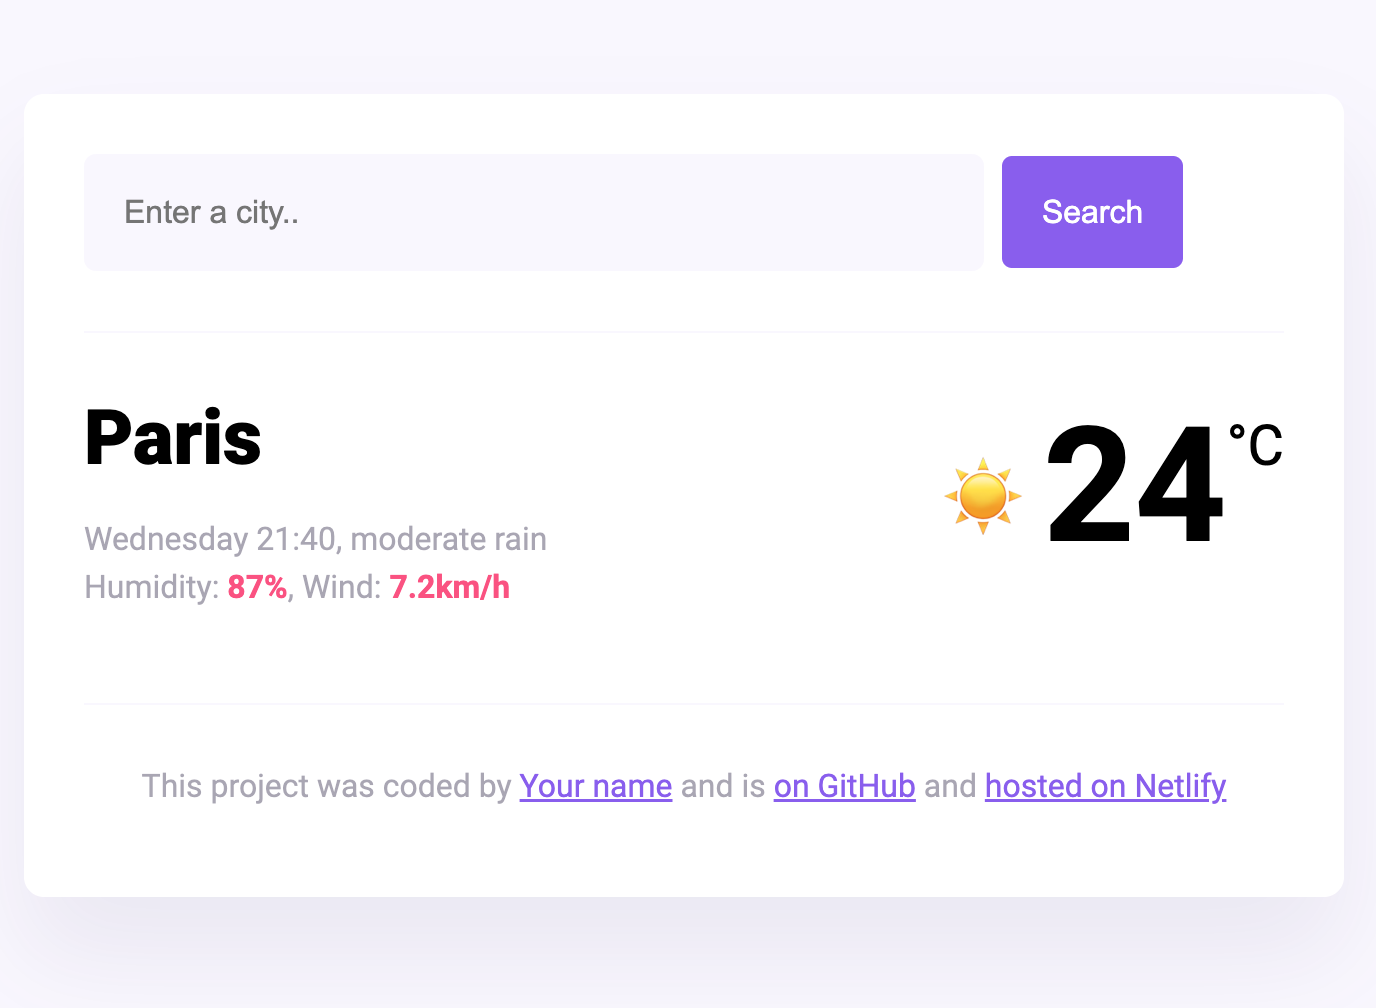
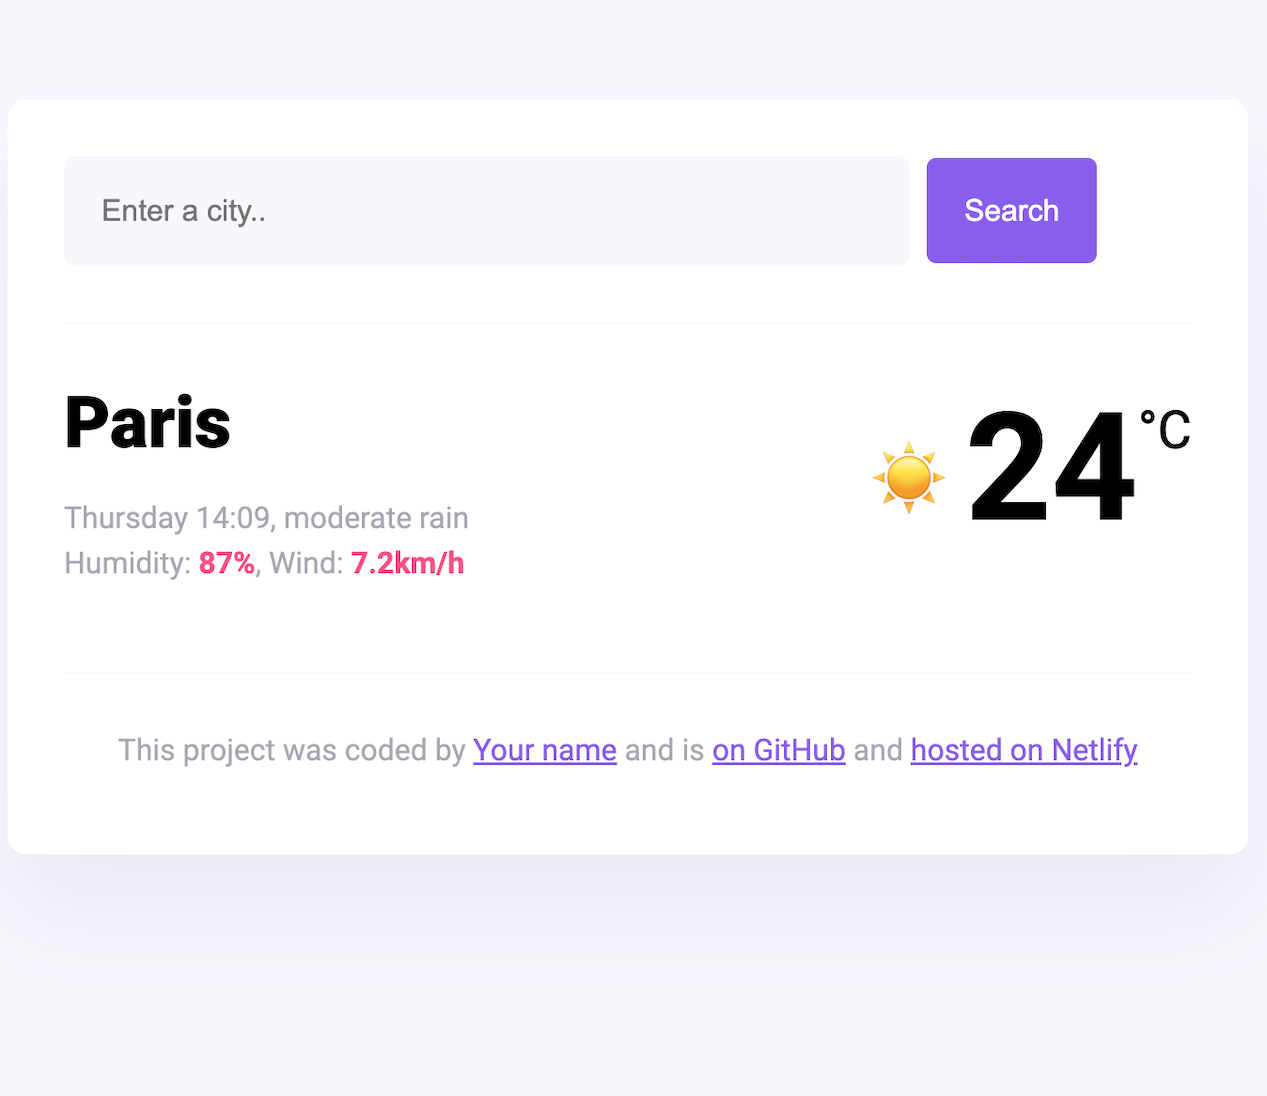
layout update

diff --git a/portfolio.css b/portfolio.css
@@ -84,15 +84,16 @@ p{
 .content h1{
     font-size: 64px;
     line-height: 80px;
-
+    
 }
 .content-container h2{
     font-size: 18px;
     font-family: var(--default-font-family);
 }
 .content {
-    margin: 30px;
+    margin: 20px;
 }
+
 .content h3 {
     font-size: 24px;
     line-height: 1.5;
@@ -102,10 +103,7 @@ p{
 .content p{
     font-size: 14px;
 }
-.weather-image{
-    height: 480px; 
-    object-fit: cover;
-}
+
 
 
 .clock-image:hover,
@@ -212,9 +210,7 @@ footer .email-link:hover{
         text-align: center;
         padding: 0;
     }
-    .weather-image {
-        height: 240px;
-    }
+  
 
 }
 @media (max-width: 576px) {
@@ -222,20 +218,8 @@ footer .email-link:hover{
         font-size: 14px; 
         padding: 10px 20px; 
     }
-    .weather-image{
-        height: 250px;
-    }
+   
     br{
         display: none;
-    }
-}
-@media (max-width: 768px) {
-    .weather-image {
-        height: 240px;
-    }
-}
-@media (max-width: 1024px) {
-    .weather-image {
-        height: 330px;
     }
 }

diff --git a/work.html b/work.html
@@ -56,7 +56,7 @@
             <h3 class="text-center m-0">Weather App</h3>
             <p class="text-center text-muted">Built with HTML, CSS and JavaScript</p>
         </div>
-        <div class="container d-flex justify-content-center align-items-center" >
+        <div class="container d-flex justify-content-center align-items-center mt-5" >
             <div class="col-md-6 text-center">
                 <a href="https://recipesgenerator.netlify.app/" 
                 target="_blank">
